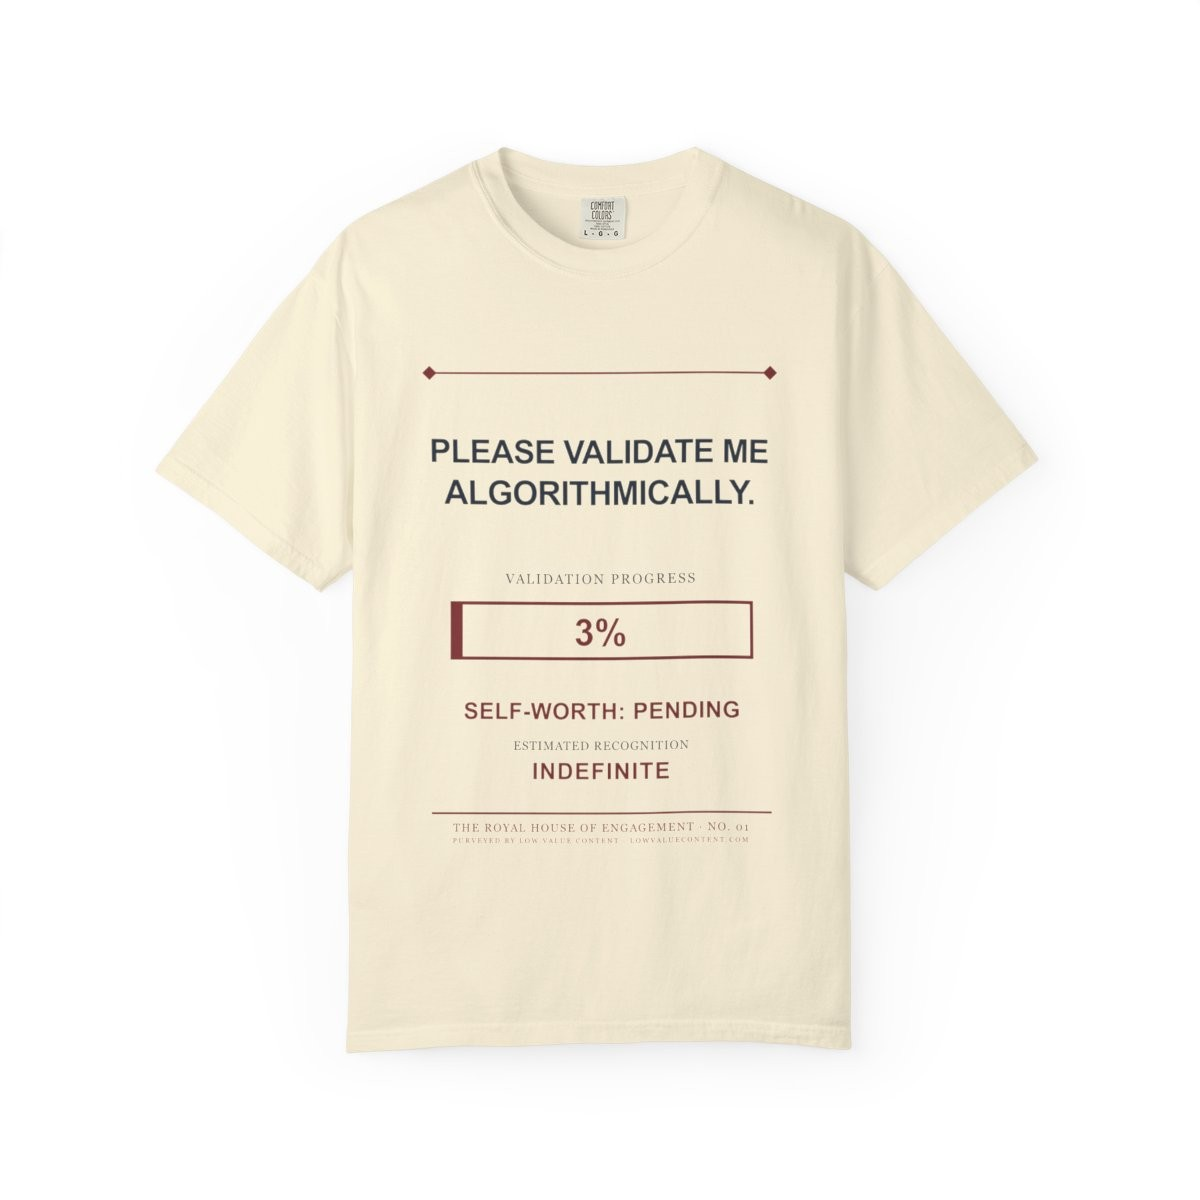
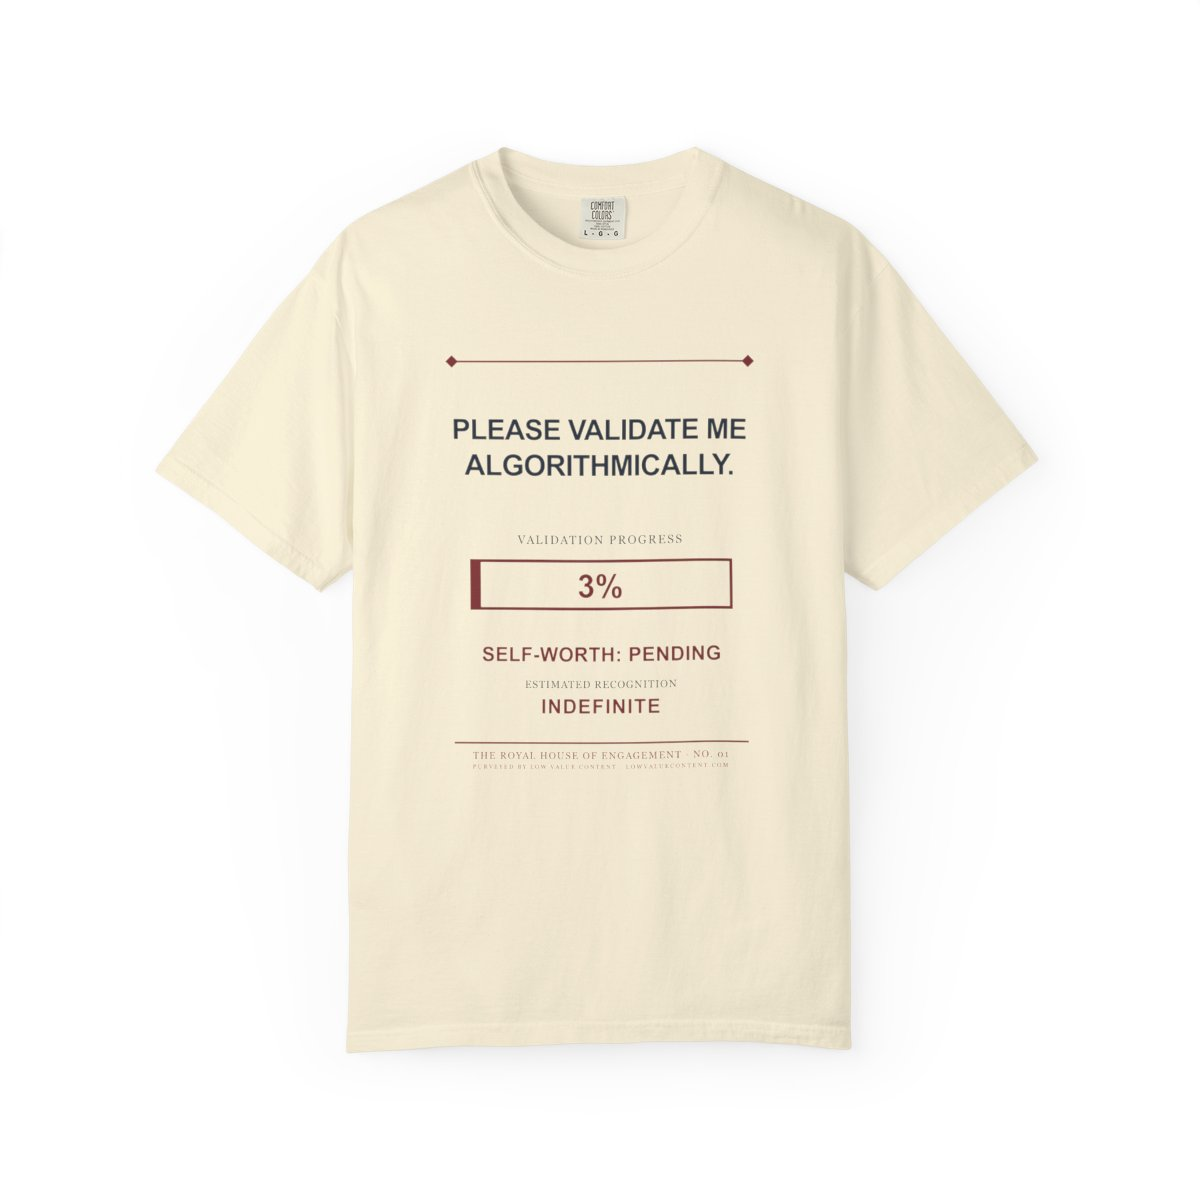
Raise and shorten the six Printify front placements

Changed region(s): [[0.37, 0.4625, 0.6475, 0.7092], [0.3392, 0.3083, 0.6475, 0.4317], [0.37, 0.2775, 0.4008, 0.3083]]

diff --git a/tools/printify/update_launch_six_art.py b/tools/printify/update_launch_six_art.py
@@ -17,6 +17,7 @@ from PIL import Image
 
 ROOT = Path(__file__).resolve().parents[2]
 SHOP = 29342324
+IMAGE_X, IMAGE_Y, IMAGE_SCALE, IMAGE_ANGLE = 0.5, 0.42, 0.82, 0
 RECORD = ROOT / "tools/printify/launch-six-products.json"
 ART = ROOT / "production/print-files/launch-six-redesign-candidate-v1"
 LOG = ROOT / "production/qa/printify-redesign-update-2026-11-23.json"
@@ -62,7 +63,10 @@ def check_product(key, product, entry, allowed_ids):
     if len(images) != 1 or images[0]["id"] not in allowed_ids:
         raise RuntimeError(f"{key}: unexpected front image")
     image = images[0]
-    if (image["x"], image["y"], image["scale"], image["angle"]) != (0.5, 0.5, 0.9452, 0):
+    if (image["x"], image["y"], image["scale"], image["angle"]) not in {
+        (0.5, 0.5, 0.9452, 0),
+        (IMAGE_X, IMAGE_Y, IMAGE_SCALE, IMAGE_ANGLE),
+    }:
         raise RuntimeError(f"{key}: placement changed")
     other = [p for area in product["print_areas"] for p in area["placeholders"]
              if p["position"] != "front" and p.get("images")]
@@ -96,13 +100,15 @@ def main():
         product = request(session, "GET", f"/shops/{SHOP}/products/{entry['productId']}.json")
         check_product(key, product, entry, allowed)
         current_id = front_image(product)[0]["id"]
-        if prior.get("newUploadId") == current_id and prior.get("sourceSha256") == digest:
+        position = (front_image(product)[0]["x"], front_image(product)[0]["y"],
+                    front_image(product)[0]["scale"], front_image(product)[0]["angle"])
+        if prior.get("newUploadId") == current_id and prior.get("sourceSha256") == digest and position == (IMAGE_X, IMAGE_Y, IMAGE_SCALE, IMAGE_ANGLE):
             print(f"{key}: already updated and verified")
             continue
         print(f"{key}: ready, current art {current_id}, new file {png.name}")
         if not apply:
             continue
-        if current_id != old_id:
+        if current_id not in {old_id, prior.get("newUploadId")}:
             raise RuntimeError(f"{key}: current art no longer matches saved original")
         if not prior.get("newUploadId"):
             upload = request(session, "POST", "/uploads/images.json", {
@@ -119,7 +125,7 @@ def main():
             "print_areas": [{
                 "variant_ids": product["print_areas"][0]["variant_ids"],
                 "placeholders": [{"position": "front", "images": [{
-                    "id": prior["newUploadId"], "x": 0.5, "y": 0.5, "scale": 0.9452, "angle": 0,
+                    "id": prior["newUploadId"], "x": IMAGE_X, "y": IMAGE_Y, "scale": IMAGE_SCALE, "angle": IMAGE_ANGLE,
                 }]}],
             }],
         }

diff --git a/docs/product/blank-and-print-spec.md b/docs/product/blank-and-print-spec.md
@@ -10,13 +10,13 @@ Status: updated November 11, 2026. The **Verified facts** section below supersed
 | Provider | Printify Choice (provider 99). Ten other providers carry the blank; Printful (410) and SwiftPOD (39) have the same three colors, with smaller print areas (3425 x 3882 and 3461 x 3955 px) |
 | Colors we use | **Ivory**, **True Navy**, **Brick**, all in stock for S to 3XL. The catalog also has "Navy" (renders as a grey-blue) and "Crimson" (renders as a coral red), which we rejected. No Comfort Colors shade is called oxblood; Brick is the nearest we tested, so it is provisional until a sample |
 | Sizes sold | S, M, L, XL, 2XL, 3XL (4XL exists on some colors; not used) |
-| Print method | DTG. Front print area 3703 x 4200 px. Our 4500 x 5400 art is fitted to the height (scale 0.945), so it prints about 11.7 in wide and 14 in tall |
+| Print method | DTG. Front print area 3703 x 4200 px. The November 23 draft placement uses scale 0.82, x 0.50, y 0.42. The 4500 x 5400 image occupies about 10.1 in wide by 12.1 in tall, subject to Printify's actual print rendering. The earlier scale 0.945 was about 11.7 by 14 in. |
 | Production cost | S to XL **$12.65**, 2XL $13.89, 3XL $16.03 |
 | US shipping (Printify's quote) | $5.35 first shirt, $2.40 each additional shirt |
 | Care | Machine wash cold (max 30 °C), do not bleach, tumble dry low, iron on low heat, do not dry clean |
 | Handling time | The API reports 10 days for every provider, which looks like a default. Real production time is unverified |
 
-**Print-quality flag.** The November 11 frame note below applies to the earlier art. The November 23 redesign has a 3 px minimum rule in its 1000-unit source, about 0.035 in when the 5400 px master is fitted to the recorded 4200 px / 14 in print area. Physical samples still need to confirm the small serif text and gold on textured garment-dyed cotton.
+**Print-quality flag.** The November 11 frame note below applies to the earlier art. At the revised 0.82 scale, a 3 px rule in the redesign's 1000-unit source becomes about 0.030 in. The small serif text, including the newly added maker line, needs a physical sample for legibility; the raised placement has only been reviewed in Printify mockups.
 
 **Interim mockups.** Printify renders mockups for every color we enabled. They are what the site can show until sample photography exists.
 

diff --git a/docs/product/launch-readiness.md b/docs/product/launch-readiness.md
@@ -21,14 +21,14 @@ State key: **Done** (built and checked), **Ready** (I can do it now without a de
 | Garment colors locked to real blank names | Done | Manifest `blankColor` plus checker; Brick provisional |
 | Confirm Brick and True Navy on a real shirt | Blocked | Needs samples |
 | Confirm print quality, thin rules and gold on dark cotton | Blocked | Needs samples |
-| Frame and small-type quality on the redesign | Blocked | The new rails are lighter in area and the smallest drawn rule exceeds the local 0.03 in target at the recorded provider scale. Confirm edge quality and small serif text on a physical sample. |
+| Frame and small-type quality on the redesign | Blocked | The raised, shorter Printify placement brings the thinnest rules to about 0.030 in. Confirm edge quality and small serif text, especially the maker line, on a physical sample. |
 | Trademark knockout searches for the six sayings and the brand | Needs outside | Cannot be done from here; search the USPTO and common marketplaces; the site must not claim clearance |
 
 ## 2. Printify
 
 | Item | State | Notes |
 |---|---|---|
-| Six draft products (Ivory, True Navy, Brick; S to 3XL; placed art) | Done | Existing drafts updated with approved redesign art November 23, then again the same day with the maker's line added at the foot of each front design (`PURVEYED BY LOW VALUE CONTENT · LOWVALUECONTENT.COM`); each read-back verified IDs, price, variants and placement. Update logs: `production/qa/printify-redesign-update-2026-11-23-first-pass.json` and `production/qa/printify-redesign-update-2026-11-23.json`. |
+| Six draft products (Ivory, True Navy, Brick; S to 3XL; placed art) | Done | Existing drafts received the redesign and maker's line November 23, then were shortened and raised to x 0.50, y 0.42, scale 0.82. Each read-back verified image IDs, price, variants and placement. Logs: `production/qa/printify-redesign-update-2026-11-23-first-pass.json`, `production/qa/printify-redesign-update-2026-11-23.json`, and `production/qa/printify-placement-update-2026-11-23.json`. |
 | Old test product removed | Done | Deleted November 11 |
 | Prices on the Printify products | Done | Set to $36 on November 11 |
 | Confirm real production time and the holiday cutoff | Needs outside | Ask Printify support or read the provider page; the 10-day API field looks like a default |
